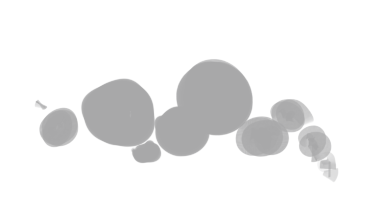
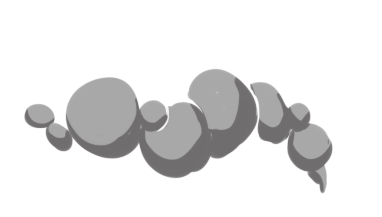
fewfwe

Changed region(s): [[0.0576, 0.2488, 0.8927, 0.8848]]

diff --git a/css/style.css b/css/style.css
@@ -25,11 +25,9 @@ html, body{
   z-index: 903;
 }
 .boats{
+  top: -10px;
   z-index: 903;
-  transform-origin: center top;
-  transform: rotate(-30deg);
-  animation: sway 2.2s infinite alternate ease-in-out;
-  /* animation: moveboats 15s infinite linear; */
+  animation: moveboats 15s linear infinite;
 }
 .house{
   z-index: 905;
@@ -40,7 +38,7 @@ html, body{
   transform: translateZ(0);
   position: absolute;
   width: 8vw;
-  top: 64vh;
+  top: 68%;
   left: 68vw;
 }
 .snowman{
@@ -69,7 +67,6 @@ html, body{
   position: absolute;
   z-index: 904;
   width: 1.5%;
-  /* animation: movecabin 8s infinite linear; */
 }
 .threeHouse{
   z-index: 906;
@@ -110,6 +107,7 @@ html, body{
   left: 0;
   height: 100%;
   width: 100%;
+  overflow: hidden;
 }
 .nature{
   position: absolute;
@@ -144,41 +142,43 @@ html, body{
 .cloud.one{
   top: 50%;
   width: 10%;
-  animation: movecloud 20s infinite linear;
+  animation: movecloud 20s infinite linear, opacitycl 10s infinite linear
 }
 .cloud.tw{
+  left: -2%;
   top: 22%;
   width: 30%;
-  animation: movecloud2 15s infinite linear;
+  animation: movecloud2 15s infinite linear, opacitycl 5s infinite linear
 }
 .cloud.th{
+  left: -2%;
   top: -3%;
   width: 50%;
-  animation: movecloud 10s infinite linear;
+  animation: movecloud 10s infinite linear, opacitycl 12s infinite linear
 }
 .cloud.fo{
   left: 43%;
   top: 30%;
   width: 10%;
-  animation: movecloud2 9s infinite linear;
+  animation: movecloud 15s infinite linear, opacitycl 8s infinite linear
 }
 .cloud.fi{
   left: 55%;
   top: 25%;
   width: 25%;
-  animation: movecloud2 10s infinite linear;
+  animation: movecloud2 16s infinite linear, opacitycl 15s infinite linear
 }
 .cloud.si{
-  right: 0;
+  right: -2%;
   top: 27%;
   width: 20%;
-  animation: movecloud 20s infinite linear;
+  animation: movecloud 20s infinite linear, opacitycl 10s infinite linear
 }
 .cloud.se{
-  right: 0;
+  right: -2%;
   top: 5%;
   width: 30%;
-  animation: movecloud 20s infinite linear;
+  animation: movecloud2 20s infinite linear, opacitycl 5s infinite linear
 }
 .balloon-atr{
   position: absolute;
@@ -187,9 +187,6 @@ html, body{
   top: 12%;
   left: 12%;
   animation: moveBall 90s infinite linear;
-  /* transition: transform 1s ease-out; */
-  /* backface-visibility: hidden; */
-  /* transform: translateZ(0) */
 }
 .balloon-atr img{
   max-width: 100%;
@@ -209,7 +206,7 @@ img.flame{
   backface-visibility: hidden;
 }
 @keyframes moveripp {
-  0% {
+  0%, 100% {
     transform: translate(0px, 0px);
     opacity: 0
   }
@@ -220,62 +217,33 @@ img.flame{
     transform: translate(0px, 30px);
     opacity: 20%;
   }
-  100% {
-    transform: translate(0px, 0px);
-    opacity: 0;
-  }
 }
+
+,,,
+
 @keyframes movecloud {
-  0% {
-    transform: translate(0px, 0px);
-    opacity: 100%;
-  }
-  45% {
-    transform: translate(20px, 10px);
-  }
-  75% {
-    transform: translate(10px, 20px);
-   opacity: 60%;
-  }
-  100% {
-    transform: translate(0px, 0px);
-    opacity: 100%;
-  }
+  from { transform: rotate(0deg) translateX(10px) rotate(0deg); }
+  to   { transform: rotate(360deg) translateX(10px) rotate(-360deg); }
 }
 @keyframes movecloud2 {
-  0% {
-    transform: translate(0px, 0px);
+  from { transform: rotate(0deg) translateX(10px) rotate(0deg); }
+  to   { transform: rotate(-360deg) translateX(10px) rotate(360deg); }
+}
+@keyframes opacitycl {
+  0%,100% {
     opacity: 100%;
   }
   45% {
-    transform: translate(-30px, -5px);
-    opacity: 60%;
-  }
-  100% {
-    transform: translate(0px, 0px);
-    opacity: 100%;
+    opacity: 40%;
   }
 }
-
 @keyframes moveboats {
-  0% {
-    transform: translate(0px, 0px);
-  }
-  25% {
-    transform: translate(-6px, 6px);
-  }
-  50% {
-    transform: translate(0px, 0px);
-  }
-  75% {
-    transform: translate(6px, 6px);
-  }
-  100% {
-    transform: translate(0px, 0px);
-  }
+  0%,  100%{transform: rotate(90deg) translateX(15px) rotate(-90deg)}
+  25%{transform: rotate(120deg) translateX(15px) rotate(-120deg);}
+  75%{transform: rotate(60deg) translateX(15px) rotate(-60deg)}
 }
 @keyframes moveby {
-  0% {
+  0%, 100% {
     transform: translate(0px, 0px);
   }
   25% {
@@ -287,9 +255,6 @@ img.flame{
   }
   75% {
     transform: translate(6px, 6px);
-  }
-  100% {
-    transform: translate(0px, 0px);
   }
 }
 @keyframes moveShip {

diff --git a/css/media.css b/css/media.css
@@ -4,9 +4,9 @@
   }
 }
 @media (max-width: 4000px) {
-  .hsmoke{
+  /* .hsmoke{
     top: 68vh;
-  }
+  } */
   /* .smoke{
     top: -97px;
     left: -60px;
@@ -41,23 +41,23 @@
   /* #ship{
     top: 67%;
   } */
-  .hsmoke{
+  /* .hsmoke{
     top: 76vh;
-  }
+  } */
   .compress{
     top: 28%;
     width: 100%;
     height: 65%;
     object-fit: cover;
-    object-position: center;
-    margin-left: auto;
-    margin-right: auto;
+    /* object-position: center; */
+    /* margin-left: auto; */
+    /* margin-right: auto; */
   }
 }
 @media (max-width: 540px) {
-  .balloon-atr{
+  /* .balloon-atr{
     width: 13%;
-  }
+  } */
   #ship{
     display: none;
   }
@@ -68,17 +68,18 @@
     display: none;
   }
   .hsmoke{
-    top: 76vh;
-    left: 71vw;
+    /* top: 73%; */
+    /* left: 79vw; */
+    /* transform: translate(-0%, -50%) */
   }
   .compress{
-    top: 45%;
+    top: 51%;
     width: 100%;
-    height: 45%;
+    height: 66.6vw;
     object-fit: cover;
-    object-position: center;
-    margin-left: auto;
-    margin-right: auto;
+    /* object-position: center; */
+    /* margin-left: auto; */
+    /* margin-right: auto; */
   }
   .cloud.tw{
     width: 60%;
@@ -88,7 +89,6 @@
   }
   .cloud.fo{
     top: 50%;
-
     width: 30%;
   }
   .cloud.fi{
@@ -96,7 +96,6 @@
     width: 40%;
   }
   .cloud.si{
-
     width: 50%;
   }
   .cloud.se{

diff --git a/js/index.js b/js/index.js
@@ -6,10 +6,11 @@ window.onload = function() {
 
   loading();
   setTimeout(function() {
-
-    $('#loader').style.display = "none";
-    cancelAnimationFrame(loading)
     $('#nature').style.display = 'block'
+    $('#loader').style.display = "none";
+    $('.hsmoke').style.display = "none";
+    cancelAnimationFrame(loading)
+
   }, 6000);
 
   setTimeout(function() {
@@ -36,7 +37,7 @@ function flameDr(){
   layout(4, 150, '.flameDr', 'img/flameFair/','.png')
 }
 function smokeHouse(){
-  layout(6, 140, '.hsmoke', 'img/houseSmoke/','.png')
+  layout(7, 140, '.hsmoke', 'img/houseSmoke/','.png')
 }
 
 function animate() {

diff --git a/js/adapt.js b/js/adapt.js
@@ -1,0 +1,21 @@
+const smokeh = document.querySelector('.hsmoke')
+const width = document.documentElement.clientWidth
+const height = document.documentElement.clientHeight
+console.log(width/height);
+// if(width/height > 0.5){
+//   smokeh.style.top = '77%'
+// }
+// if(width/height > 0.45 && width/height < 0.5){
+//   smokeh.style.top = '74%'
+// }
+// if(width/height > 0.43 && width/height < 0.46){
+//   smokeh.style.top = '72%'
+// }
+// if(width/height > 0.41 && width/height < 0.5){
+//   smokeh.style.top = '71%'
+// }
+
+function topSmoke(){
+  const ratio = width/height
+
+}

diff --git a/index.html b/index.html
@@ -59,6 +59,7 @@
 
 
   <script src="js/index.js"></script>
+  <!-- <script src="js/adapt.js"></script> -->
   <!-- <script src="js/move.js"></script> -->
 </body>
 </html>
